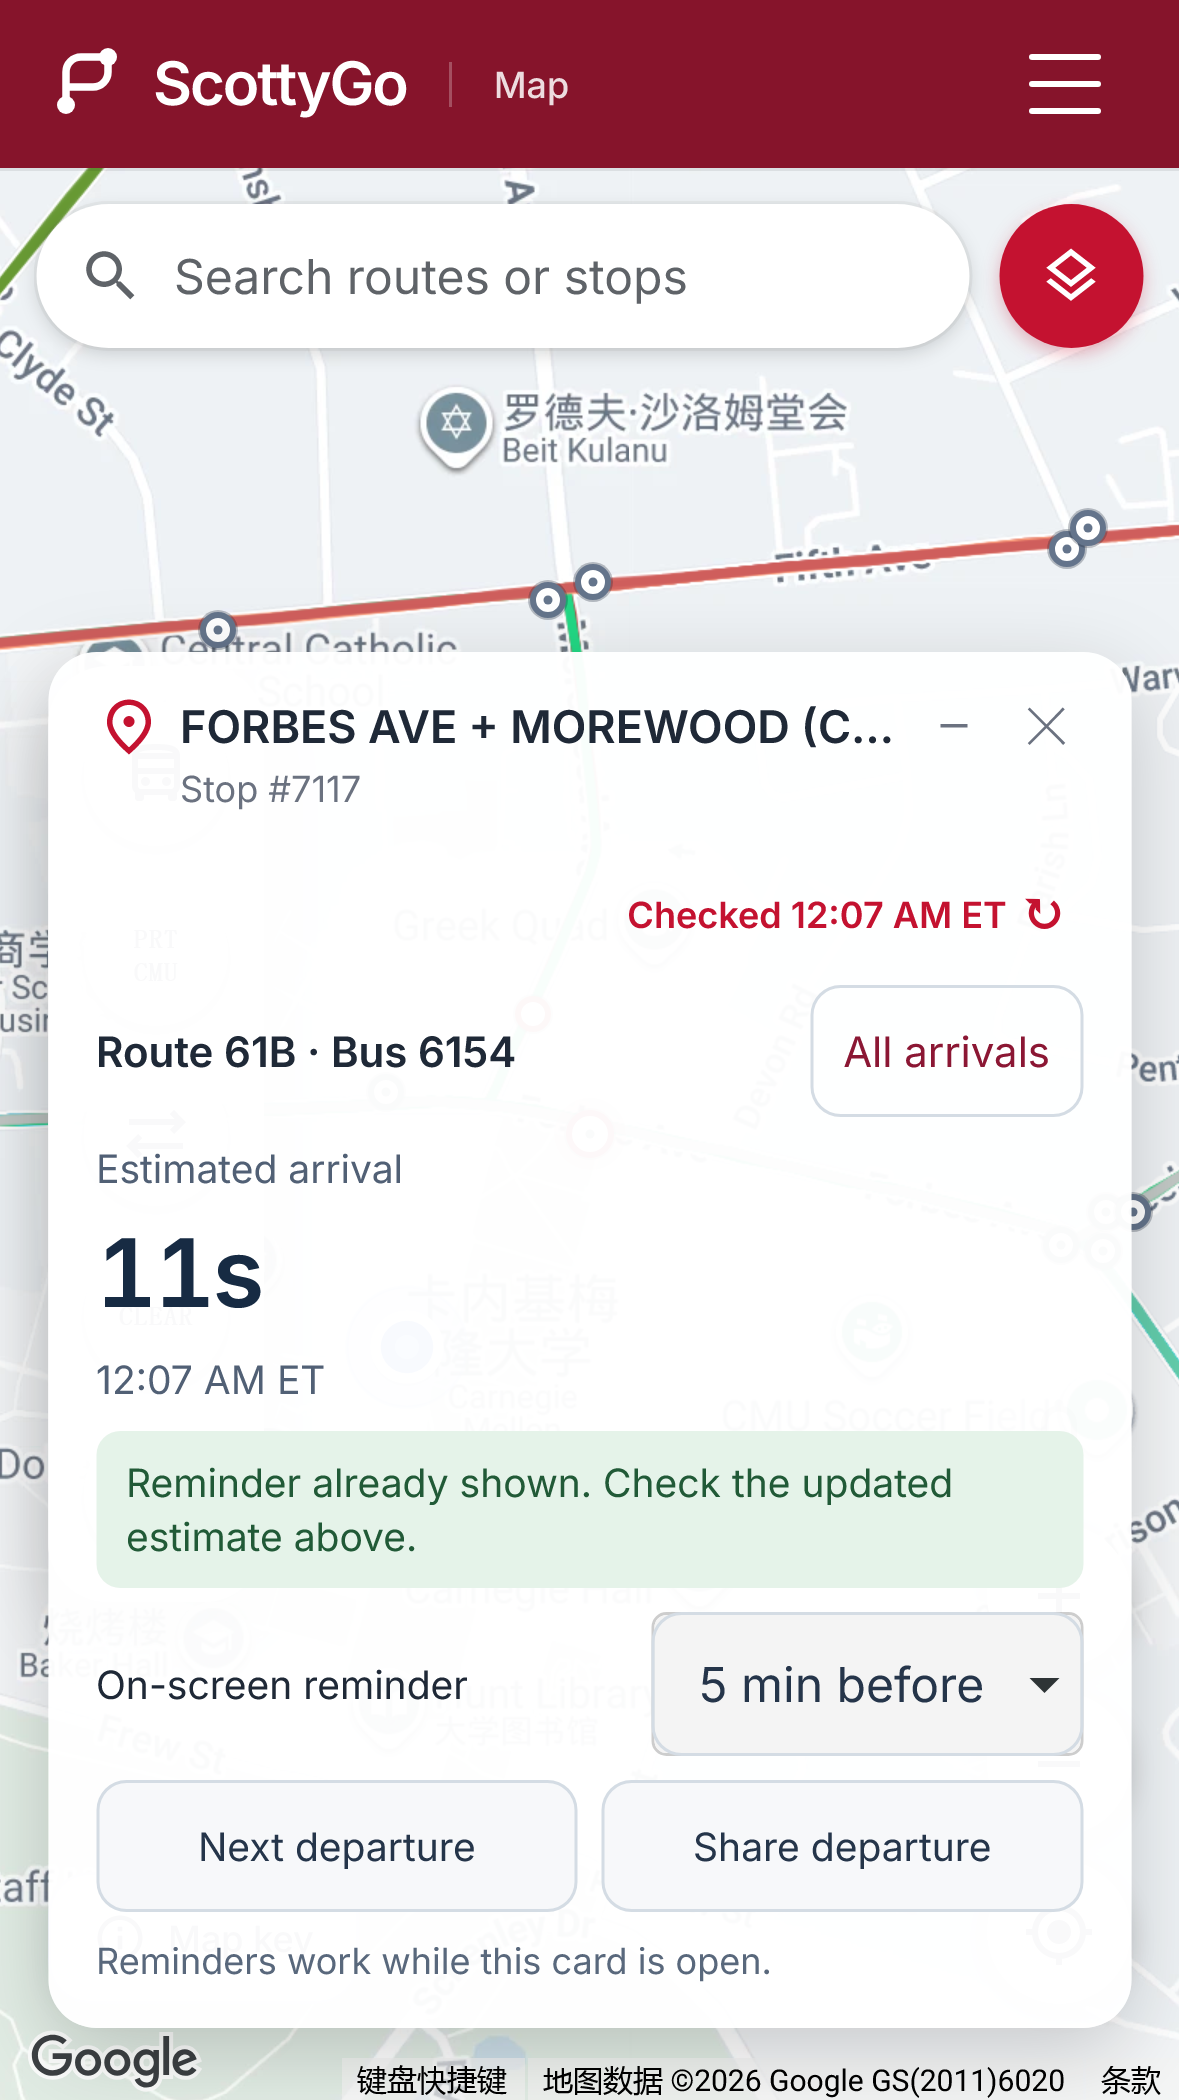
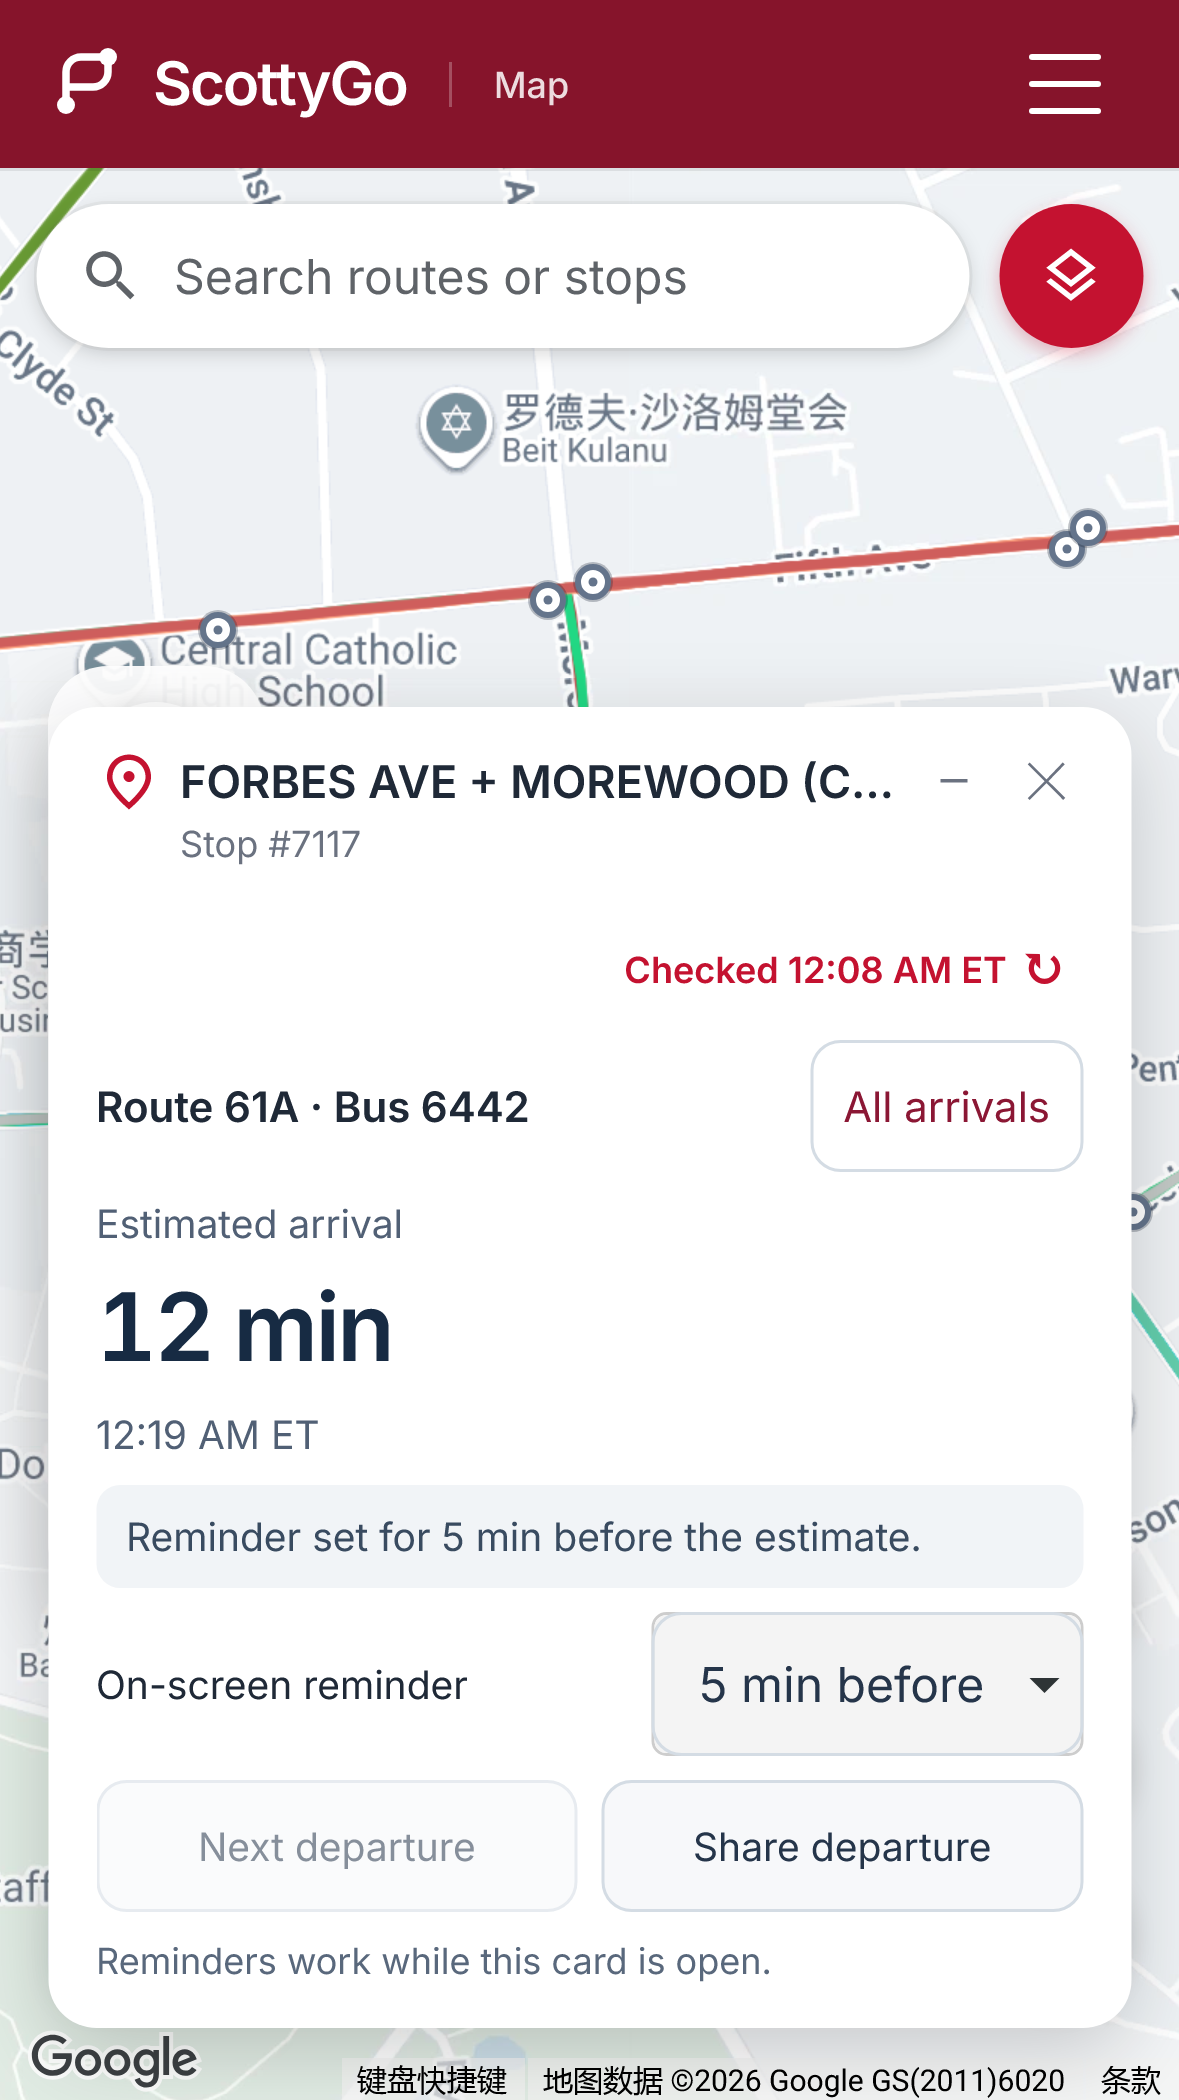
docs: record accepted departure-watch iteration and current screen

diff --git a/docs/FEATURES.md b/docs/FEATURES.md
@@ -447,7 +447,7 @@ R2 accepted product candidate: `9bea3ebde9d4e5df54cd98f75b5b148946afa1f9`. Evide
 
 ![Saved routes shows the resume time and keeps temporary pause controls in an expandable section.](wireframes/current/saved-routes-popup-phone.png)
 
-R3 evidence: `private/rider-rehearsals/flow-03-before-2026-11-06T04-49-30-282Z/results.json` on baseline `7d7698b`, and `private/rider-rehearsals/flow-03-accept-2026-11-06T05-02-59-476Z/results.json`. The new watch tests caught repeated screen-reader reminder announcements after ETA jitter; the final version retains an acknowledgement instead of announcing the threshold again. Controlled lifecycle checks hold the restore/foreground response pending and verify that cached estimates cannot trigger a reminder. Actual browser checks used public PRT arrivals and the shared web/iOS interface; physical iPhone share-sheet and background checks remain pending.
+R3 accepted product candidate: `61f69cc1542cc54b22973028e19555253cb56521`. Evidence: `private/rider-rehearsals/flow-03-before-2026-11-06T04-49-30-282Z/results.json` on baseline `7d7698b`, and `private/rider-rehearsals/flow-03-accept-2026-11-06T05-02-59-476Z/results.json`. The new watch tests caught repeated screen-reader reminder announcements after ETA jitter; the final version retains an acknowledgement instead of announcing the threshold again. Controlled lifecycle checks hold the restore/foreground response pending and verify that cached estimates cannot trigger a reminder. After the complete gate, shorter reminder labels and an opaque watch-card background passed a rebuild, 28 focused checks and repeated actual-provider browser acceptance. Actual browser checks used public PRT arrivals and the shared web/iOS interface; physical iPhone share-sheet and background checks remain pending.
 
 ![Watch departure focuses on one real PRT visit, with its arrival clock, reminder and explicit next-departure action.](wireframes/current/departure-watch-phone.png)
 
